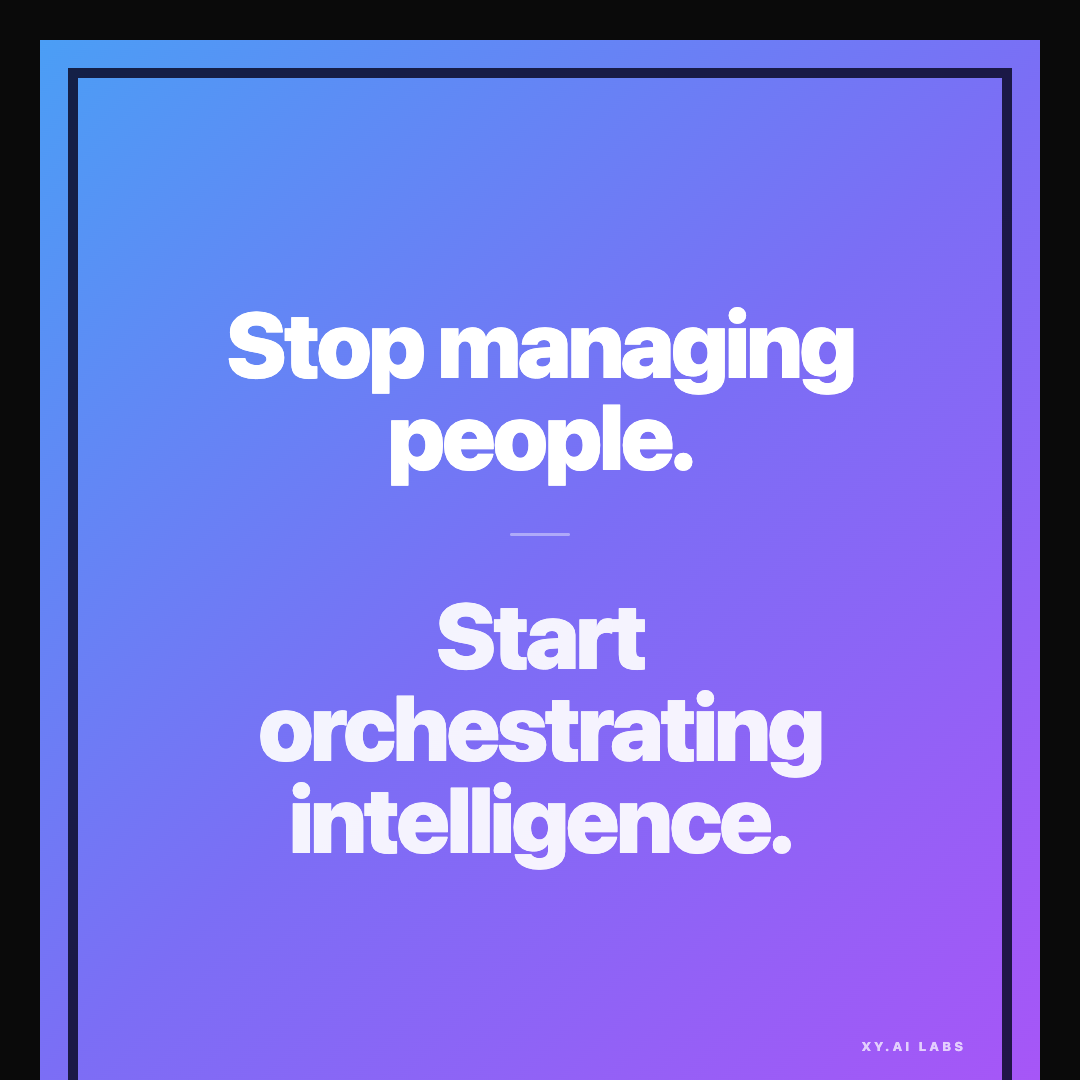
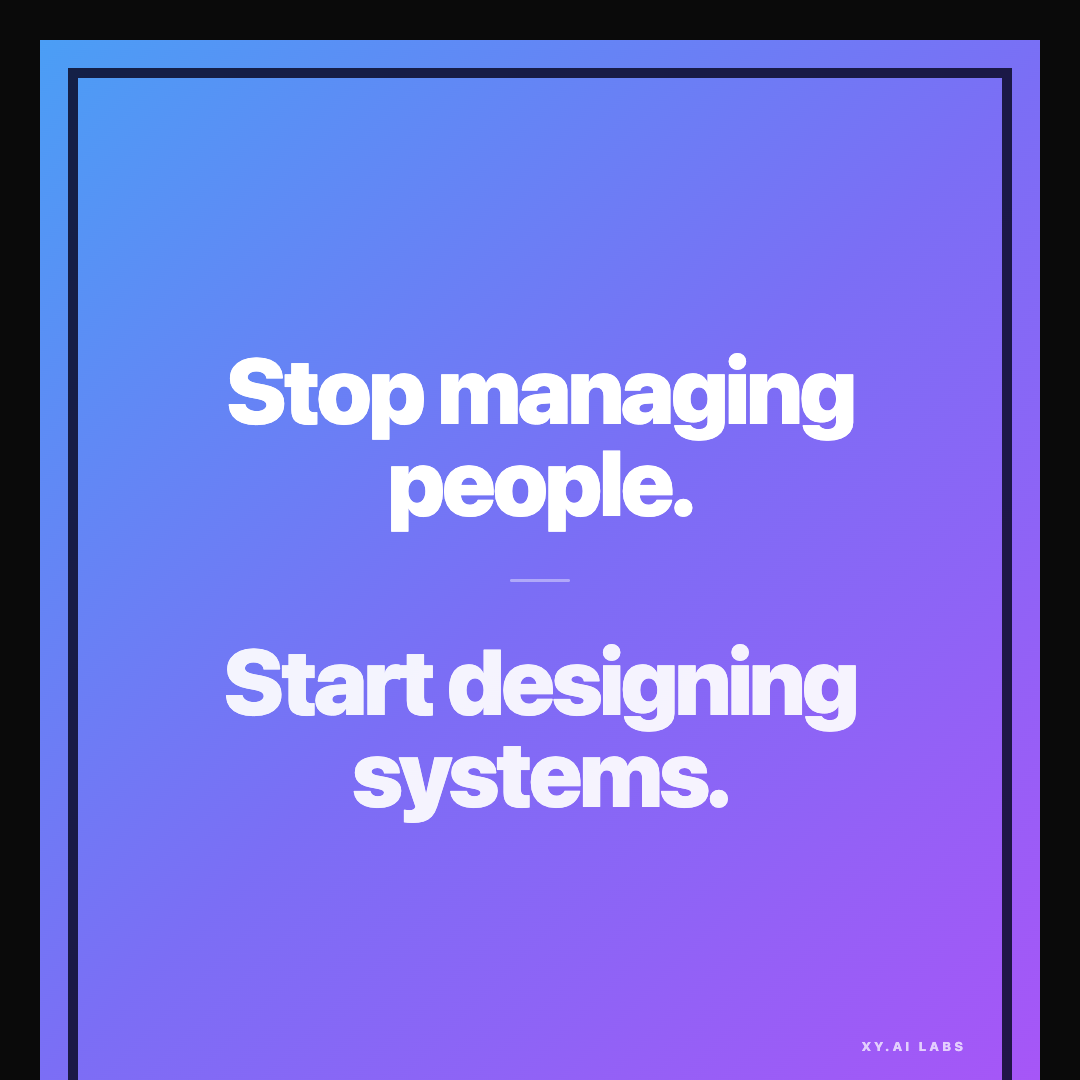
Update AI-native card — designing systems

Changed region(s): [[0.2139, 0.55, 0.7944, 0.825], [0.2139, 0.275, 0.7944, 0.5194]]

diff --git a/ai-native-card.html b/ai-native-card.html
@@ -83,7 +83,7 @@
   <div class="inner-frame">
     <div class="main-text">Stop managing<br>people.</div>
     <div class="divider"></div>
-    <div class="secondary-text">Start orchestrating<br>intelligence.</div>
+    <div class="secondary-text">Start designing<br>systems.</div>
     <div class="wordmark">XY.AI LABS</div>
   </div>
 </div>
